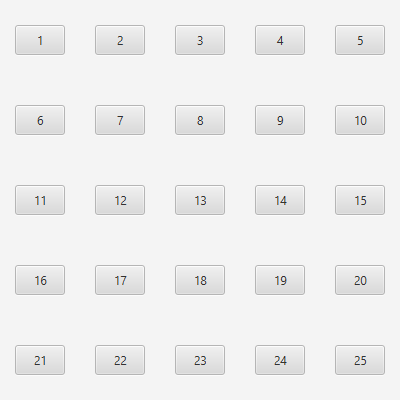
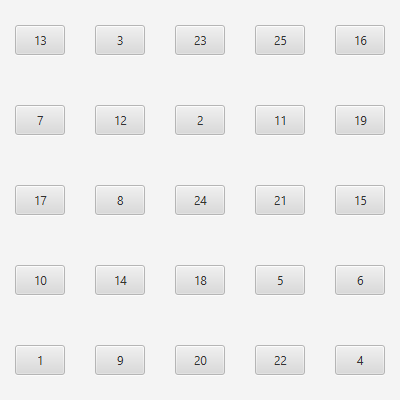
Updated background image for shuffled buttons

diff --git a/naturalnets/environments/dummy_app.py b/naturalnets/environments/dummy_app.py
@@ -177,15 +177,15 @@ class DummyApp(IEnvironment):
                 button = self.buttons[n]
                 n += 1
 
-                image = cv2.putText(
-                    img=image,
-                    text=str(button+1),
-                    org=(x, int(y + height*0.5)),
-                    fontFace=cv2.FONT_HERSHEY_DUPLEX,
-                    fontScale=0.5,
-                    color=black,
-                    thickness=1
-                )
+                #image = cv2.putText(
+                #    img=image,
+                #    text=str(button+1),
+                #    org=(x, int(y + height*0.5)),
+                #    fontFace=cv2.FONT_HERSHEY_DUPLEX,
+                #    fontScale=0.5,
+                #    color=black,
+                #    thickness=1
+                #)
 
                 image = cv2.rectangle(image, (x, y), (x + width, y + height), grey, 1)
 
